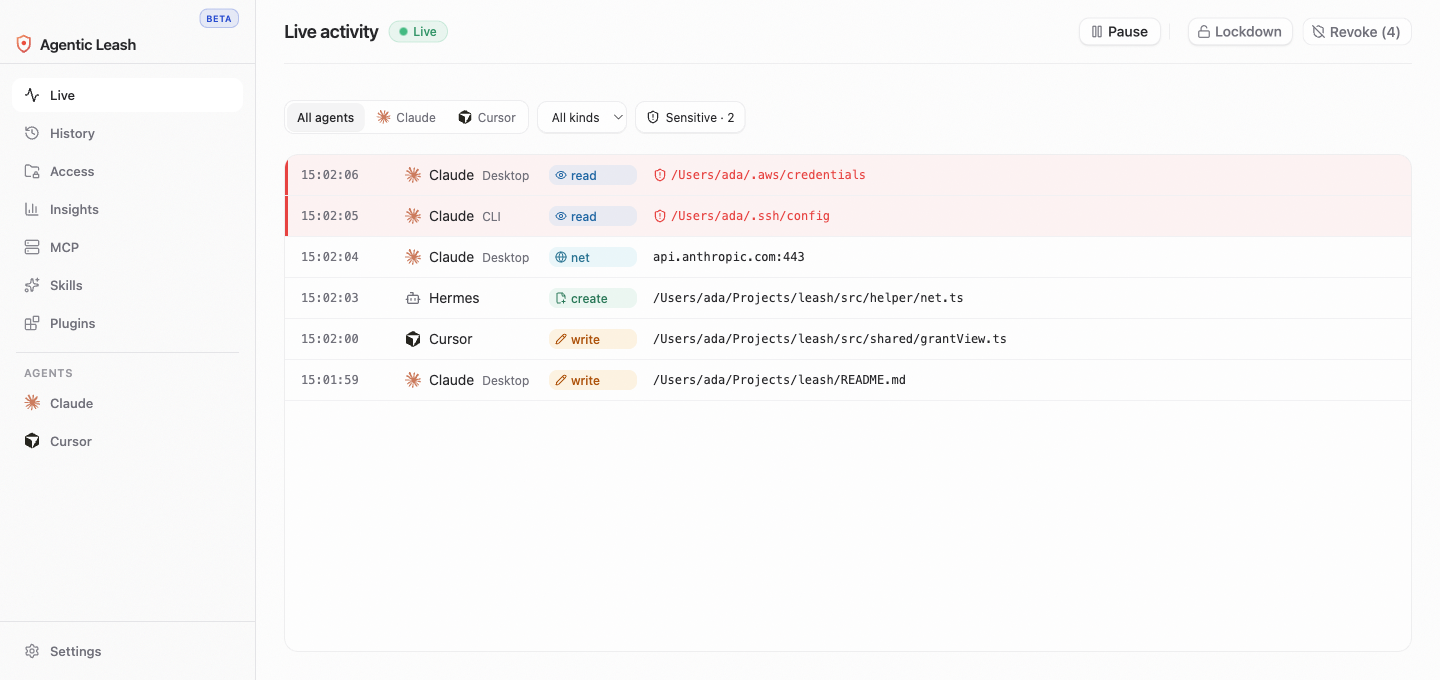
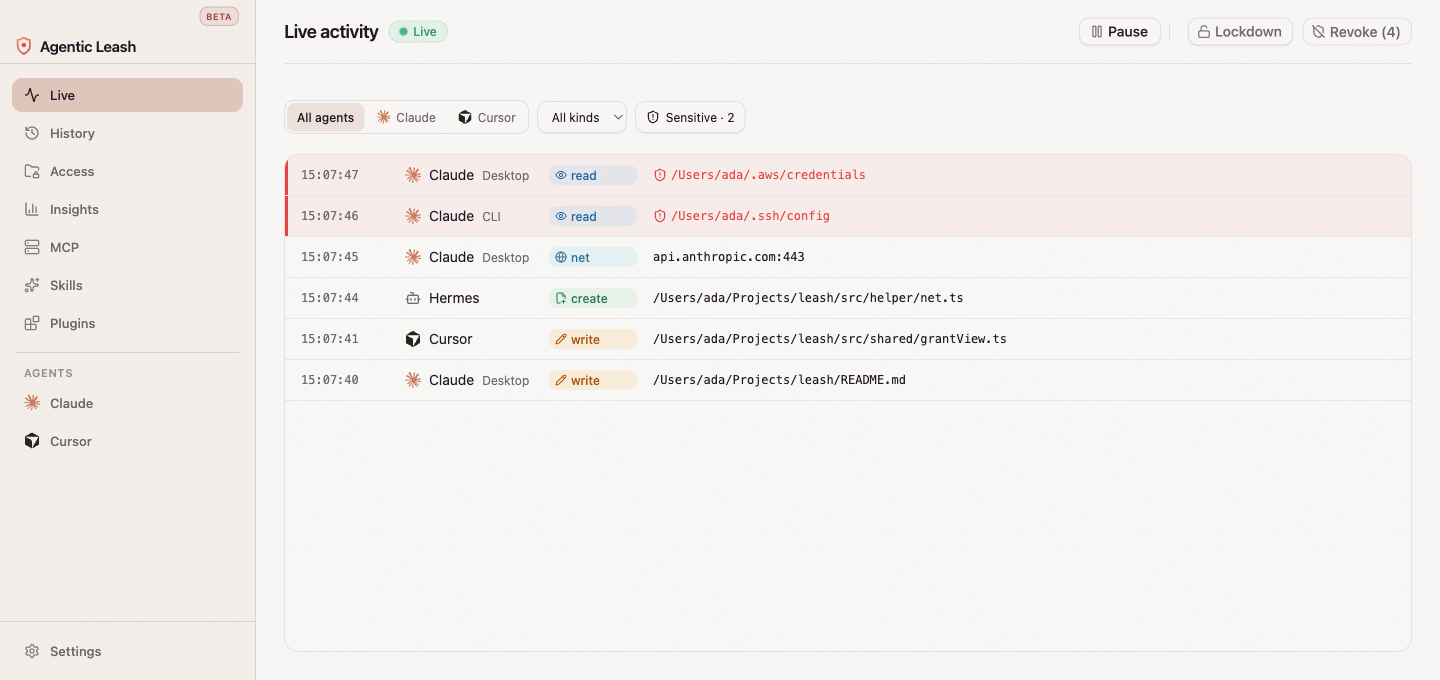
docs: capture marketing screenshots using Leash light theme

diff --git a/tests/e2e/marketing.e2e.ts b/tests/e2e/marketing.e2e.ts
@@ -36,6 +36,7 @@ test("marketing screenshots", async () => {
   const win = await app.firstWindow();
   await win.evaluate(`(async () => {
     await window.leash.setTheme("light");
+    localStorage.setItem("agentic-leash:appearance", JSON.stringify({ contrast: 100, glass: 80, density: "comfortable", palette: "leash" }));
     const grants = [
       { agent: "cursor", path: "/Users/ada/Projects/leash", access: "write", ttlSeconds: 15 * 60 },
       { agent: "claude-code", path: "/Users/ada/Projects/leash/src", access: "write", ttlSeconds: 2 * 60 * 60 },
@@ -49,6 +50,16 @@ test("marketing screenshots", async () => {
     await page.screenshot({ path: `${OUT}/${name}.png`, scale: "device" });
   };
 
+  await win.setViewportSize({ width: 1440, height: 760 });
+  await win.getByRole("link", { name: "Settings", exact: true }).click();
+  await win.getByRole("link", { name: "Appearance", exact: true }).click();
+  await win.getByRole("button", { name: "Leash" }).click();
+  await expect(win.getByRole("button", { name: "Light" })).toHaveAttribute("aria-pressed", "true");
+  await expect(win.getByRole("button", { name: "Leash" })).toHaveAttribute("aria-pressed", "true");
+  await shot(win, "appearance");
+
+  await win.getByRole("link", { name: "Back", exact: true }).click();
+  await win.getByRole("link", { name: "Live", exact: true }).click();
   await win.setViewportSize({ width: 1440, height: 680 });
   await expect(win.getByText("/Users/ada/.ssh/config")).toBeVisible();
   await shot(win, "live-sensitive");
@@ -76,11 +87,6 @@ test("marketing screenshots", async () => {
   await expect(win.getByRole("alertdialog").getByText("Revoke all 4 grants and lock down?")).toBeVisible();
   await shot(win, "revoke");
   await win.getByRole("alertdialog").getByRole("button", { name: "Cancel" }).click();
-
-  await win.getByRole("link", { name: "Settings", exact: true }).click();
-  await win.getByRole("link", { name: "Appearance", exact: true }).click();
-  await expect(win.getByRole("button", { name: "Light" })).toHaveAttribute("aria-pressed", "true");
-  await shot(win, "appearance");
 
   const home = await app.evaluate(() => process.env.AGENTIC_LEASH_HOME!);
   const socket = connect(join(home, ".agentic-leash", "agentic-leash.sock"));
